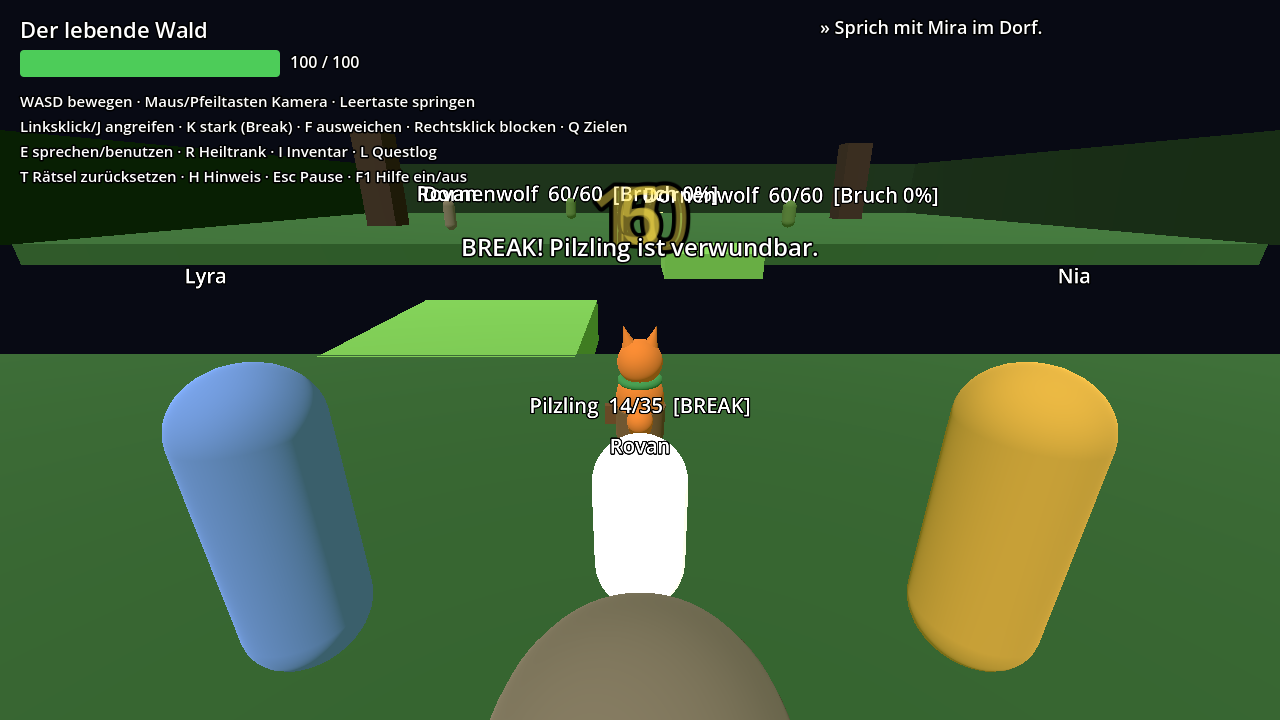
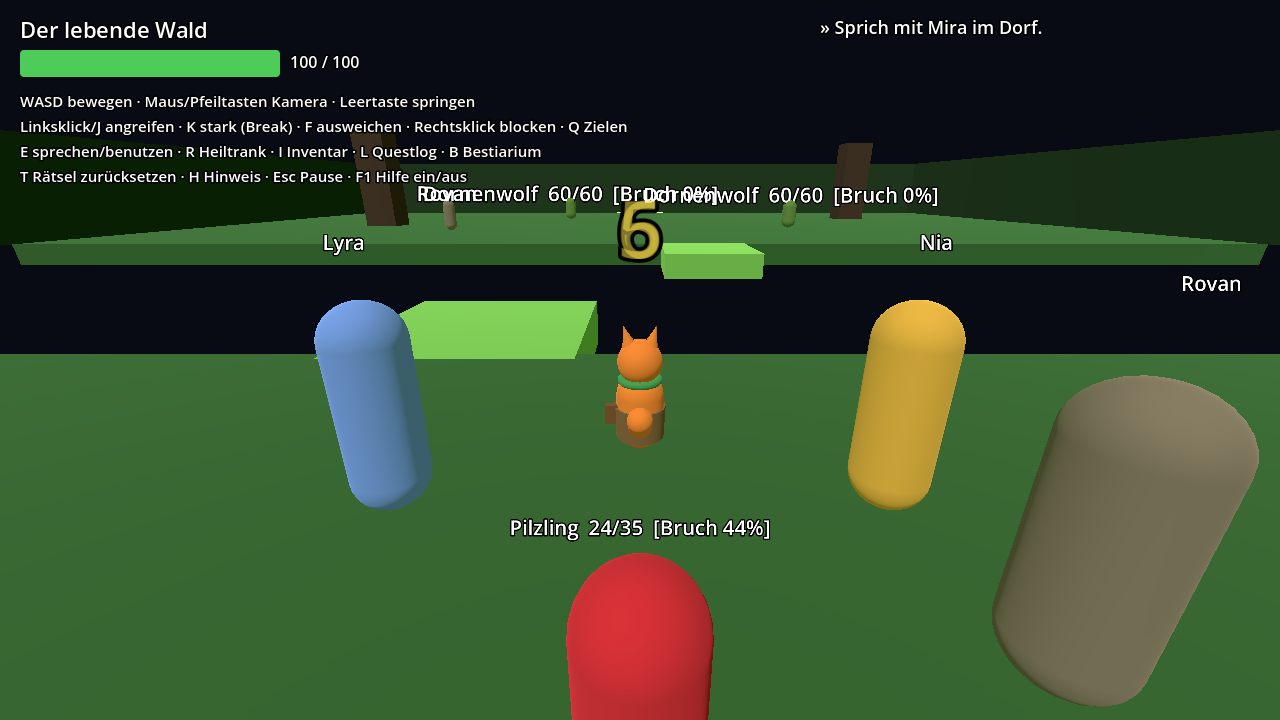
Phase 3 V06: chapter-3 golden path, restart check for all chapters, v0.4.0
Also fixes the companion formation hiding Zotik from the camera.

Claude-Session: https://claude.ai/code/session_01D64FBPKosMPWYDNkmQT7wn

diff --git a/docs/ACCEPTANCE_MATRIX.md b/docs/ACCEPTANCE_MATRIX.md
@@ -2,7 +2,7 @@
 
 All tests are executed headless with Godot 4.7-stable: `GODOT=<godot 4.7> tools/run_regression.sh`.
 CI runs the same command on every PR update.
-Last local run on 2026-10-02: **92/92 tests passed + restart check PASS**.
+Last local run on 2026-10-02 (v0.4.0): **171/171 tests passed + restart check PASS for chapters 1, 2 and 3**.
 
 ## Critical golden path
 `tests/unit/test_m15_golden_path.gd` plays the whole path through real interactions: dialogues, melee hits, puzzle parts, exits, savepoint and pedestal.
@@ -81,3 +81,35 @@ Last local run on 2026-10-02: **140/140 tests + restart checks PASS for both cha
 ## Open (Phase 2)
 - All art and audio are placeholders. Dialogue is placeholder except the spec epilogue of the tower.
 - Story assumptions C-15 to C-19 need owner review: Phase-2 scope, when Nia and Rovan join, NPC roles.
+
+## Chapter-3 golden path
+`tests/unit/test_v06_golden_valdoria.gd` starts from a schema-v2 save at the end of chapter 2 (party: Lyra, Nia, Rovan) and plays through real interactions. Its final save is verified in a **separate process** by `tests/restart_check.gd`, alongside chapters 1 and 2 (`golden_expected_val.json`).
+
+| Step | Covered |
+|---|---|
+| Load the chapter-2 save via the title | party restored |
+| Weltenstein → Weltkarte → Valdoria | arrival scene, chapter-3 quest starts |
+| Market: Lotte's side quest, one casino spin | NPC quest start, casino entrance + virtual Lun |
+| Guild: Veyr, accept a bounty | quest step, bounty board |
+| Arena: Kasimir → Bronze (2 waves) | arena menu, waves, first-clear reward |
+| Canal gate: Tibor opens the gate | quest-gated dialogue |
+| Canals: Krabbe + Schleim, chest, Weltenanker save, valves (a turn undone, then solved) | savepoint save menu, valve puzzle |
+| Cistern: Rostgolem | miniboss gate, scrap for Lotte |
+| Schleusenkammer: intro, Kanalwächter, defeat scene → canal gate | boss, travel effect |
+| Lotte, Veyr | side quest and chapter complete, bestiary entry |
+| Save → new process → load → identical state | restart check |
+
+## Phase-3 systems
+| System | Tests |
+|---|---|
+| Valdoria districts, library, armour slot | `test_v01_valdoria` |
+| Guild bounties + bestiary | `test_v02_guild` |
+| Arena waves, safe defeat, abort on leaving; casino (virtual Lun, odds, family toggle) | `test_v03_arena_casino` |
+| Forgotten canals, valve puzzle + validator, Rostgolem | `test_v04_canals`, `test_p02_reachability` |
+| Chapter-3 quests, Kanalwächter phases, water surge + hazard validator | `test_v05_chapter3` |
+| Companion formation keeps the camera line free | `test_e02_party::test_companions_spread_into_formation` (behind Zotik, no overlap) |
+
+## Open (Phase 3)
+- All art and audio are placeholders; all chapter-3 dialogue is placeholder.
+- Assumptions C-20 to C-28 need owner review.
+- No human playtest of chapter 3 yet; boss and arena tuning is a first pass.

diff --git a/docs/MILESTONE_LOG.md b/docs/MILESTONE_LOG.md
@@ -417,3 +417,14 @@ Standing owner approval was recorded in `CLAUDE.md` (rule 8 update). The plan is
 - V04 test updated: Tibor first needs Veyr's word (intended behaviour change from V05).
 - Tests: `tests/unit/test_v05_chapter3.gd` (9 tests).
 - Regression: 170/170 tests plus restart checks: PASS.
+
+## V06 Chapter-3 regression – PASSED (Phase 3 complete)
+- `tests/unit/test_v06_golden_valdoria.gd`: the chapter-3 golden path from a chapter-2 save, through real interactions (details in `docs/ACCEPTANCE_MATRIX.md`).
+- `tests/restart_check.gd` now checks all three chapters in a fresh process.
+- **Bug found and fixed via the screenshots:** the third companion's formation slot sat exactly on the line between the camera and Zotik, so Rovan hid Zotik. The slots are now to the sides, still behind Zotik and without overlap.
+- New reference screenshots:
+  - 11 Valdoria market with the casino
+  - 12 canals with valves and gauges
+  - 13 Kanalwächter
+- Version 0.4.0.
+- Regression: 171/171 tests plus restart checks for chapters 1–3: PASS.

diff --git a/README.md b/README.md
@@ -1,6 +1,6 @@
 # ZOTIK – Die Splitter der Welten
 
-## Jetzt spielen (Kapitel 1 Lunaris + Kapitel 2 Elaris)
+## Jetzt spielen (Kapitel 1 Lunaris, Kapitel 2 Elaris, Kapitel 3 Valdoria)
 - **Windows:** [ZOTIK-windows-x86_64.zip](https://github.com/ricorewioriginal-collab/zotik/releases/download/phase1-latest/ZOTIK-windows-x86_64.zip) herunterladen, entpacken und `ZOTIK.exe` starten. Windows SmartScreen warnt eventuell, weil die Datei nicht signiert ist: „Weitere Informationen → Trotzdem ausführen“.
 - **Linux:** [ZOTIK-linux-x86_64.zip](https://github.com/ricorewioriginal-collab/zotik/releases/download/phase1-latest/ZOTIK-linux-x86_64.zip), dann `ZOTIK.x86_64` starten.
 - **Browser:** Die Web-Version wird automatisch auf GitHub Pages veröffentlicht, sobald Pages einmalig aktiviert ist: *Settings → Pages → Build and deployment → Source: GitHub Actions*. Danach läuft sie unter `https://ricorewioriginal-collab.github.io/zotik/`.

diff --git a/CLAUDE.md b/CLAUDE.md
@@ -3,8 +3,8 @@
 PROJECT: ZOTIK – Die Splitter der Welten
 ENGINE TARGET: Godot 4.7
 CURRENT PHASE: Phase 3 – Valdoria (standing owner approval, see docs/PHASE_3_PLAN.md)
-CURRENT MILESTONE: V05_CHAPTER3_QUESTS_BOSS
-STATUS: Phase 1 PASSED (M00–M15); Phase 2 PASSED (E00–E08); Phase 3 IN_PROGRESS
+CURRENT MILESTONE: V06_CHAPTER3_REGRESSION
+STATUS: Phase 1 PASSED (M00–M15); Phase 2 PASSED (E00–E08); Phase 3 PASSED (V00–V06)
 
 ## Mandatory workflow
 1. Audit before implementation. Do not rebuild from scratch.
